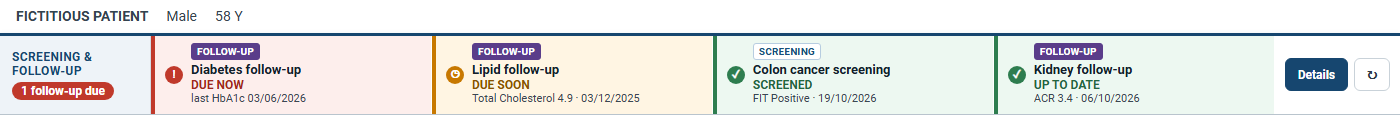
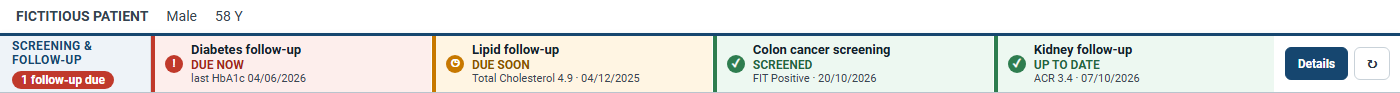
Release Chronic Disease Assistant v0.2.3

diff --git a/chronic-disease-assistant.user.js b/chronic-disease-assistant.user.js
@@ -1,7 +1,7 @@
 // ==UserScript==
 // @name         Chronic Disease Assistant
 // @namespace    https://github.com/vBryx/chronic-disease-assistant
-// @version      0.2.1
+// @version      0.2.3
 // @description  Chronic disease screening, follow-up, care gaps, results and calculators for Raqeem
 // @homepageURL  https://github.com/vBryx/chronic-disease-assistant
 // @supportURL   https://github.com/vBryx/chronic-disease-assistant/issues
@@ -27,6 +27,8 @@
     kidneyFollowupAllDiabetes: true,
     ckdScreenHeartDisease: true,
     ckdEstablishedOnly: true,
+    stripModeInTitle: true,
+    medGroups: true,
     dmConfirmTwoStep: true,
     pregnancyEpisodes: true,
     fitValueRead: true,
@@ -381,7 +383,7 @@
     readAt: null,
     careprovider: null,
     log: [],
-    cda: '0.2.1',
+    cda: '0.2.3',
   };
 
   const OLD_SCRIPT_NOTE = 'Remove the old Raqeem Screening Assistant in Tampermonkey, then reload Raqeem.';
@@ -3072,7 +3074,7 @@
     );
   }
 
-  const cacheKey = (pid) => 'rqm-screen-v021:' + pid;
+  const cacheKey = (pid) => 'rqm-screen-v023:' + pid;
 
   function cacheGet(pid, key) {
     try {
@@ -3135,7 +3137,7 @@
       }
       .rqm-screening-lead {
         min-width:126px;
-        padding:7px 12px;
+        padding:3px 12px;
         background:#eef3f8;
         border-right:1px solid #d3dce4;
         display:flex;
@@ -3148,7 +3150,7 @@
       .rqm-screening-cell {
         position:relative;
         min-width:0;
-        padding:7px 10px;
+        padding:3px 10px;
         border:0;
         border-left:4px solid var(--rqm-accent);
         border-right:1px solid #fff;
@@ -3157,22 +3159,18 @@
         text-align:left;
         display:grid;
         grid-template-columns:auto minmax(0,1fr);
-        grid-template-areas:"icon mode" "icon copy";
+        grid-template-areas:"icon copy";
         align-items:center;
         column-gap:8px;
-        row-gap:2px;
         color:#1f2933;
         cursor:help;
       }
       .rqm-screening-cell:hover,.rqm-screening-cell:focus { box-shadow:inset 0 0 0 2px var(--rqm-accent); outline:0; }
       .rqm-screening-icon { grid-area:icon; flex:none; width:18px; height:18px; border-radius:50%; background:var(--rqm-accent); color:#fff; display:flex; align-items:center; justify-content:center; font-style:normal; font-weight:800; font-size:11px; line-height:1; }
-      .rqm-mode { grid-area:mode; justify-self:start; border-radius:3px; padding:0 5px; font-size:9.5px; font-weight:800; letter-spacing:.5px; line-height:15px; }
-      .rqm-mode-screening { color:#164f7a; background:#fff; border:1px solid #b7cde0; }
-      .rqm-mode-followup { color:#fff; background:#5a3d8a; border:1px solid #5a3d8a; }
       .rqm-screening-copy { grid-area:copy; min-width:0; display:flex; flex-direction:column; }
-      .rqm-screening-copy b { font-size:13px; line-height:1.25; color:#14202b; }
-      .rqm-screening-state { color:var(--rqm-fg); font-size:12px; font-weight:800; }
-      .rqm-screening-note { color:#3b4752; font-size:11px; line-height:1.3; display:-webkit-box; -webkit-line-clamp:2; -webkit-box-orient:vertical; overflow:hidden; }
+      .rqm-screening-copy b { font-size:13px; line-height:1.25; color:#14202b; white-space:nowrap; overflow:hidden; text-overflow:ellipsis; }
+      .rqm-screening-state { color:var(--rqm-fg); font-size:12px; font-weight:800; white-space:nowrap; overflow:hidden; text-overflow:ellipsis; }
+      .rqm-screening-note { color:#3b4752; font-size:11px; line-height:1.3; display:block; white-space:nowrap; overflow:hidden; text-overflow:ellipsis; }
       .rqm-screening-pop {
         position:absolute;
         top:calc(100% + 7px);
@@ -5920,14 +5918,68 @@
     });
   }
 
+  const DT_MED_GROUPS = [
+    [
+      'Diabetes',
+      ['metformin', 'sglt2i', 'glp1ra', 'sulfonylurea', 'insulin'],
+      /gliptin|januvia|galvus|trajenta|onglyza|pioglitazon|\bactos\b|acarbos|glucobay|repaglinid|novonorm|nateglinid|fiasp|basaglar|toujeo|tresiba|novorapid|novomix|humalog|humulin|apidra|levemir/i,
+    ],
+    [
+      'Blood pressure and heart',
+      ['acei', 'arb', 'arni', 'ccb', 'thiazide', 'betaBlocker', 'mra'],
+      /furosemid|lasix|torsemid|bumetanid|hydralazin|methyldop|doxazosin|prazosin|isosorbid|nitroglycer|ivabradin|digoxin|amiodaron|clonidin|trimetazidin|vastarel|ranolazin/i,
+    ],
+    [
+      'Lipids',
+      ['statin'],
+      /ezetimib|ezetrol|fenofibrat|lipanthyl|gemfibrozil|evolocumab|repatha|alirocumab|praluent|inclisiran|leqvio/i,
+    ],
+    [
+      'Blood thinners',
+      [],
+      /aspirin|acetylsalicyl|aspocid|jusprin|clopidogrel|plavix|ticagrelor|brilinta|prasugrel|warfarin|apixaban|eliquis|rivaroxaban|xarelto|dabigatran|pradaxa|edoxaban|enoxaparin|clexane|ecosprin|heparin/i,
+    ],
+    ['Thyroid', [], /levothyrox|thyroxin|euthyrox|eltroxin|carbimazol|mercazol|methimazol|propylthiouracil/i],
+  ];
+
+  const DT_MED_SKIN = /\b(cream|gel|ointment|lotion|topical)\b/i;
+
+  const dtMedGroup = (m) =>
+    (DT_MED_GROUPS.find(
+      ([, classes, re]) =>
+        classes.some((c) => medClass(m, c)) || (re.test(medText(m)) && !DT_MED_SKIN.test(medText(m))),
+    ) || [])[0] || 'Other';
+
   function dtMedicineRows(medicines) {
-    const byKey = new Map();
+    const t = (m) => parseDate(m.date) || 0;
+    const byName = new Map();
     for (const m of (medicines && medicines.items) || []) {
       const name = normText(m.name);
       if (!name) continue;
-      const k = `${name.toLowerCase()}|${normText(m.dose).toLowerCase()}`;
-      const had = byKey.get(k);
-      if (!had || (medStopped(had) && !medStopped(m))) byKey.set(k, m);
+      const k = name.toLowerCase();
+      if (!byName.has(k)) byName.set(k, []);
+      byName.get(k).push(m);
+    }
+    const day = (m) => (t(m) ? new Date(t(m)).setHours(0, 0, 0, 0) : 0);
+    const kind = (m) => (medStopped(m) ? 2 : /complet/i.test(m.status || '') ? 1 : 0);
+    const byKey = new Map();
+    for (const [k, orders] of byName) {
+      const current = orders.filter(currentMedicine);
+      const pool = current.length ? current : orders;
+      const best = pool.reduce((had, m) =>
+        day(m) > day(had) ||
+        (day(m) === day(had) && (kind(m) < kind(had) || (kind(m) === kind(had) && t(m) > t(had))))
+          ? m
+          : had,
+      );
+      const doses = [];
+      for (const m of pool
+        .filter((o) => day(o) === day(best) && kind(o) === kind(best))
+        .sort((a, b) => t(a) - t(b))) {
+        const dose = normText(m.dose);
+        if (dose && !doses.some((d) => d.toLowerCase() === dose.toLowerCase())) doses.push(dose);
+      }
+      byKey.set(k, doses.length ? { ...best, dose: doses.join('; ') } : best);
     }
     const state = (m) =>
       medStopped(m)
@@ -5937,8 +5989,7 @@
           : currentMedicine(m)
             ? 'Active'
             : 'Not current';
-    const rows = [...byKey.values()].map((m) => ({ ...m, state: state(m) }));
-    const t = (m) => parseDate(m.date) || 0;
+    const rows = [...byKey.values()].map((m) => ({ ...m, state: state(m), group: dtMedGroup(m) }));
     return [
       ...rows.filter((m) => m.state === 'Active').sort((a, b) => t(b) - t(a)),
       ...rows.filter((m) => m.state !== 'Active').sort((a, b) => t(b) - t(a)),
@@ -5967,24 +6018,29 @@
       }
       head.appendChild(headRow);
       table.appendChild(head);
-      const body = document.createElement('tbody');
-      for (const m of rows) {
-        const row = document.createElement('tr');
-        for (const [cls, label, text] of [
-          ['rqm-mn', '', m.name],
-          ['', 'Dose', m.dose || '—'],
-          ['', 'Last ordered', parseDate(m.date) ? dtDate(parseDate(m.date)) : 'Unknown date'],
-          [`rqm-mst ${m.state === 'Active' ? 'rqm-st-active' : 'rqm-st-other'}`, 'Status', m.state],
-        ]) {
-          const cell = document.createElement('td');
-          cell.className = cls;
-          if (label) cell.setAttribute('data-l', label);
-          cell.textContent = text;
-          row.appendChild(cell);
+      for (const group of [...DT_MED_GROUPS.map(([g]) => g), 'Other']) {
+        const list = rows.filter((m) => m.group === group);
+        if (!list.length) continue;
+        const body = document.createElement('tbody');
+        body.appendChild(dtGroupRow(group, 4));
+        for (const m of list) {
+          const row = document.createElement('tr');
+          for (const [cls, label, text] of [
+            ['rqm-mn', '', m.name],
+            ['', 'Dose', m.dose || '—'],
+            ['', 'Last ordered', parseDate(m.date) ? dtDate(parseDate(m.date)) : 'Unknown date'],
+            [`rqm-mst ${m.state === 'Active' ? 'rqm-st-active' : 'rqm-st-other'}`, 'Status', m.state],
+          ]) {
+            const cell = document.createElement('td');
+            cell.className = cls;
+            if (label) cell.setAttribute('data-l', label);
+            cell.textContent = text;
+            row.appendChild(cell);
+          }
+          body.appendChild(row);
         }
-        body.appendChild(row);
+        table.appendChild(body);
       }
-      table.appendChild(body);
       panel.appendChild(table);
     });
   }
@@ -6473,9 +6529,6 @@
       const icon = document.createElement('i');
       icon.className = 'rqm-screening-icon';
       icon.textContent = style.icon;
-      const mode = document.createElement('span');
-      mode.className = `rqm-mode rqm-mode-${followup ? 'followup' : 'screening'}`;
-      mode.textContent = followup ? 'FOLLOW-UP' : 'SCREENING';
       const copy = document.createElement('span');
       copy.className = 'rqm-screening-copy';
       const name = document.createElement('b');
@@ -6490,7 +6543,6 @@
       copy.appendChild(state);
       copy.appendChild(note);
       cell.appendChild(icon);
-      cell.appendChild(mode);
       cell.appendChild(copy);
 
       const pop = document.createElement('span');
@@ -6506,7 +6558,12 @@
       const popTitle = document.createElement('b');
       popTitle.textContent = `${itemName(key, res)} — ${stateLabel(res)}`;
       pop.appendChild(popTitle);
-      for (const text of detailLines(res)) {
+      const popLines = detailLines(res);
+      const popText = popLines.join(' ').toLowerCase();
+      if (note.textContent.split(' | ').some((part) => !popText.includes(part.trim().toLowerCase()))) {
+        popLines.unshift(note.textContent);
+      }
+      for (const text of popLines) {
         const line = document.createElement('span');
         line.textContent = text;
         pop.appendChild(line);

diff --git a/docs/using.md b/docs/using.md
@@ -16,12 +16,12 @@ Opening another patient closes **Details** and starts a new reading.
 
 ## Read the strip
 
-1. Check the tag on each cell.
+1. Read the cell name. It ends in **screening** or **follow-up**.
 2. Read the bold state.
-3. Read the latest result, date, or reason below it.
+3. Read the latest result, date, or reason below it. A long reason ends with **…**. Select the cell to read all of it.
 
-- **SCREENING** means the Assistant is checking whether screening is due.
-- **FOLLOW-UP** means a coded condition or current statin needs follow-up.
+- **Screening** means the Assistant is checking whether screening is due.
+- **Follow-up** means a coded condition or current statin needs follow-up.
 - Red means an action is due now.
 - Amber means an action is due soon or needs confirmation.
 - Green means screened or up to date.
@@ -96,14 +96,15 @@ Each graph uses the latest reading from each day, up to four days within three y
 
 ![Medicines tab](images/details-medicines.png)
 
-1. Review active medicines first.
-2. Check the dose and frequency.
-3. Check the last order date.
-4. Check the status.
+1. Find the group: **Diabetes**, **Blood pressure and heart**, **Lipids**, **Blood thinners**, **Thyroid**, or **Other**.
+2. Review the active medicines at the top of each group.
+3. Check the dose and frequency.
+4. Check the last order date.
+5. Check the status.
 
 The list can show **Active**, **Completed**, **Not current**, or a stopped status from Raqeem.
 
-**Expected result:** One row appears for each medicine-and-dose combination, with its latest available order date and status.
+**Expected result:** Each medicine appears once, with its most recent current order. If the same medicine has two active doses on the same day, both doses appear in the row. A group without medicines is not shown.
 
 ### Calculators
 
@@ -160,18 +161,6 @@ The Assistant checks diagnoses before adding. It checks again afterwards to conf
 **Expected result:** The Diagnosis list contains each code that Raqeem accepted. Any failed or unconfirmed code appears in a message.
 
 If the patient, visit, or department changes, the Assistant stops adding more codes.
-
-## Use a small screen
-
-1. Move sideways inside the strip to see all cells.
-2. Select **Details**.
-3. Move down through each stacked row.
-
-![Strip on a small screen](images/mobile-strip.png)
-
-![Care gaps on a small screen](images/mobile-care-gaps.png)
-
-**Expected result:** The Raqeem page stays within the screen. Only the strip moves sideways.
 
 ## Keyboard controls
 

diff --git a/docs/meanings.md b/docs/meanings.md
@@ -1,6 +1,6 @@
 # Clinical meanings
 
-This reference describes version 0.2.1. **Programme rule** means a local choice, not guideline text.
+This reference describes version 0.2.3. **Programme rule** means a local choice, not guideline text.
 
 ## Strip states
 
@@ -18,7 +18,7 @@ This reference describes version 0.2.1. **Programme rule** means a local choice,
 | **NOT ELIGIBLE** | Grey | The patient is outside the pathway | Read the reason |
 | **LOADING…** | Light grey | The Assistant is reading Raqeem | Wait |
 
-**SCREENING** checks a patient without the relevant diagnosis. **FOLLOW-UP** checks a coded condition or current statin. Follow-up cells never offer screening codes.
+A cell name that ends in **screening** checks a patient without the relevant diagnosis. A cell name that ends in **follow-up** checks a coded condition or current statin. Follow-up cells never offer screening codes.
 
 For pathways with several tests, the order is:
 
@@ -180,6 +180,8 @@ A medicine is current when it is not stopped and one condition is true:
 - The order or start date is within 180 days.
 - Its end date is today or later.
 - It has no order or start date.
+
+The Medicines tab shows each medicine once. The row shows the most recent current order of that medicine, so it agrees with the care gaps. If no order is current, the row shows the most recent order. Different active doses ordered on the same day all appear in the row. Medicines are grouped by use: Diabetes, Blood pressure and heart, Lipids, Blood thinners, Thyroid, and Other. The groups only arrange the list. They do not change any screening or care gap.
 
 Medicine information supports statin, SGLT2 inhibitor, ACE inhibitor, ARB, metformin, NSAID, hypoglycaemia, PREVENT, and FRAX checks.
 

diff --git a/CHANGELOG.md b/CHANGELOG.md
@@ -1,5 +1,16 @@
 # What changed
 
+## Version 0.2.3
+
+### Changes
+
+- **Strip:** the strip is shorter. Each item now uses one line for the name, one for the state, and one for the latest result or reason.
+- **Strip:** the small SCREENING and FOLLOW-UP labels are removed. The cell name already ends in "screening" or "follow-up".
+- **Strip:** a long reason ends with "…". Select the cell to read all of it, including the value and date.
+- **Medicines:** each medicine appears once, with its most recent current order. Before this version, a medicine could appear once for each dose.
+- **Medicines:** different doses ordered on the same day, such as a morning and a night insulin dose, appear together in the row.
+- **Medicines:** medicines are grouped like the results: Diabetes, Blood pressure and heart, Lipids, Blood thinners, Thyroid, and Other.
+
 ## Version 0.2.1
 
 ### Corrections
